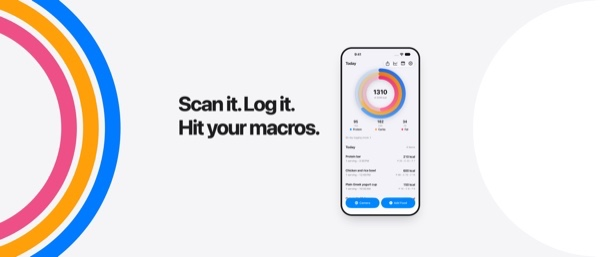
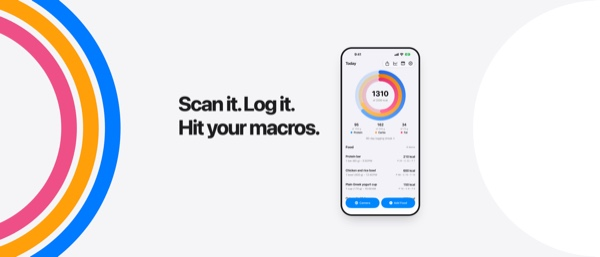
docs: refresh verified App Store creative assets
Refresh the 1.0 creative previews from build 39 and regenerate the 1.1 screenshot previews from exact build 40 captures. Record screenshot provenance and updated image checksums.

Changed region(s): [[0.57, 0.249, 0.69, 0.5603], [0.66, 0.1868, 0.69, 0.2179]]

diff --git a/docs/app-store/screenshots-v2/README.md b/docs/app-store/screenshots-v2/README.md
@@ -1,6 +1,6 @@
 # Screenshot set v2
 
-This renderer creates six later-use App Store screenshots from fresh Debug build **1.1 (40)** captures. The app was built from `origin/main` commit `2da0f08c7991460e27a9880893d30b8b7e00d086` and captured on the iPhone Air simulator, iOS 27.0, at 9:41. Its six captures are kept separate from the build-39 inputs for the 1.0 header and search creative.
+This renderer creates six later-use App Store screenshots from fresh Debug build **1.1 (40)** captures. The app was built from `origin/main` commit `2da0f08c7991460e27a9880893d30b8b7e00d086` and captured on the iPhone Air simulator, iOS 27.0, at 9:41. Home, Add Food, and History come from `build40-exact-capture.xcresult`; the corrected Scan, Grams editor, and Goals captures come from `build40-exact-final-retakes.xcresult`. The app bundle's version and build were verified as 1.1 (40) before the retake run. These captures are kept separate from the build-39 inputs for the 1.0 header and search creative.
 
 All six share the same layout: a pale solid background, a large bold dark benefit caption at the top, and one nearly full-width app screen below it. The screen bleeds past the bottom edge to keep the UI large and legible. The renderer checks that captions do not clip or overlap the screen and that each screen extends below the canvas.
 
@@ -8,12 +8,12 @@ It writes opaque, embedded-sRGB PNGs at 1260 × 2736 (iPhone with Dynamic Island
 
 ## Captions and source screens
 
-1. **Scan any label** — generic Oat Crunch scan review.
+1. **Scan any label** — Oat Crunch Cereal review after correcting the OCR name; 190 kcal, 5 g protein, 36 g carbs, and 3 g fat.
 2. **Your day at a glance** — Home with 1,310 kcal and four synthetic food logs.
 3. **No account needed** — on-device Add Food list.
-4. **Log the amount you ate** — saved-food editor with grams selected.
+4. **Log the amount you ate** — chicken-and-rice editor with Grams selected and 400 g visible.
 5. **See your food history** — real History screen.
-6. **Goals built around you** — editable Daily Goals in Settings and the recalculation entry point.
+6. **Goals built around you** — editable calorie and macro targets with the recalculation entry point; the capture is scrolled past the purchase section.
 
 The share-choice screen is intentionally omitted. The simulator had no linked synthetic participant, and setting one up would make remote sharing writes. The alternative screenshots show existing, verified functionality rather than mock UI.
 

diff --git a/docs/app-store/creative-assets/README.md b/docs/app-store/creative-assets/README.md
@@ -13,7 +13,7 @@ Full-size output is kept in ignored `build/evidence/2026-11-23-appstore-creative
 
 Apple's current [creative asset specifications](https://developer.apple.com/help/app-store-connect/reference/app-information/creative-assets-specifications) require PNG for the 21:9 product-page header; search results accept JPEG, JPG, or PNG. Both designs keep key artwork inside the template Art Safe Area. The green bounds in the previews are inspection guides only and are not part of either upload asset.
 
-Header copy: **Scan it. Log it. Hit your macros.** It uses the real build-39 Home screen with a realistic synthetic day. Search results show the real label-scan review, Home, and unbranded on-device Add Food screens, without extra headlines. The search screen is staged as a wide composition, not a claim about Apple's precise device crop.
+Header copy: **Scan it. Log it. Hit your macros.** It uses the real build-39 Home screen with a realistic synthetic day. Search results show the real label-scan review, Home, and unbranded on-device Add Food screens, without extra headlines. The scan name was corrected in Edit details to **Oat Crunch Cereal**; the captured result shows 190 kcal, 5 g protein, 36 g carbs, and 3 g fat with the OCR warning gone. The search screen is staged as a wide composition, not a claim about Apple's precise device crop.
 
 Palette and type match the site: `#f5f5f7`, `#1d1d1f`, `#007aff`, `#ff9f0a`, `#ef4f87`, with the system display font and tight tracking.
 
